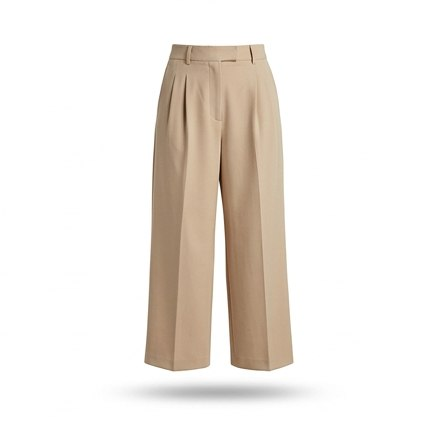
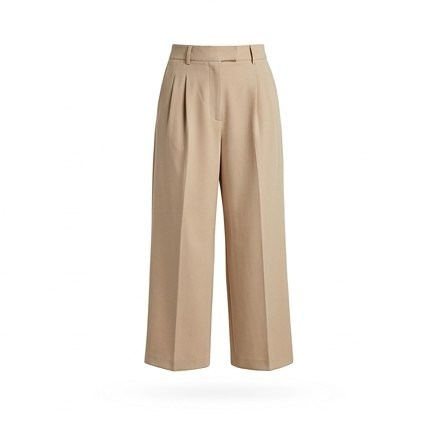
Home: lighter shadows under product photos and offer cards

Changed region(s): [[0.3397, 0.8892, 0.7102, 0.9505]]

diff --git a/index.html b/index.html
@@ -130,25 +130,25 @@ input::placeholder{color:#8E857F}
 </div>
 <div style="display: grid; grid-template-columns: repeat(2, minmax(0, 1fr)); gap: 18px 12px; padding: 0 18px">
 
-<div style="box-sizing: border-box; background: #FFFFFF; border-radius: 18px; padding: 7px; display: flex; flex-direction: column; gap: 8px; box-shadow: 0 4px 16px rgba(28,25,23,0.07)">
+<div style="box-sizing: border-box; background: #FFFFFF; border-radius: 18px; padding: 7px; display: flex; flex-direction: column; gap: 8px; box-shadow: 0 2px 10px rgba(28,25,23,0.04)">
 <div style="position: relative; height: 160px; border-radius: 13px; background: #F7F3F0; overflow: hidden"><img src="assets/dress.jpg" alt="فستان صيفي أحمر بدون أكمام" style="width: 100%; height: 100%; object-fit: contain; transform: scale(1.1); mix-blend-mode: multiply"><span style="position: absolute; top: 8px; right: 8px; height: 22px; padding: 0 8px; border-radius: 999px; background: #C2410C; color: #FFFFFF; font-size: 11px; font-weight: 700; display: flex; align-items: center">خصم 33٪</span><button type="button" aria-label="أضف للمفضلة" style="position: absolute; top: 6px; left: 6px; width: 30px; height: 30px; border: 0; border-radius: 999px; background: #FFFFFF; color: #1C1917; display: flex; align-items: center; justify-content: center; padding: 0"><svg width="16" height="16" viewBox="0 0 24 24" fill="none" stroke="currentColor" stroke-width="1.4" stroke-linecap="round" stroke-linejoin="round" aria-hidden="true"><path d="M12.62 20.81c-.34.12-.9.12-1.24 0C8.48 19.82 2 15.69 2 8.69 2 5.6 4.49 3.1 7.56 3.1c1.82 0 3.43.88 4.44 2.24a5.53 5.53 0 0 1 4.44-2.24C19.51 3.1 22 5.6 22 8.69c0 7-6.48 11.13-9.38 12.12Z"></path></svg></button></div>
 <span style="padding: 0 3px; font-size: 13px; line-height: 18px; font-weight: 500; color: #1C1917; white-space: nowrap; overflow: hidden; text-overflow: ellipsis">فستان أحمر</span>
 <div style="display: flex; align-items: center; justify-content: space-between; padding: 0 3px 2px"><div style="display: flex; align-items: center; gap: 6px"><span style="direction: ltr; display: inline-flex; align-items: center; gap: 4px; font-size: 16px; font-weight: 700; color: #C2410C"><svg width="12" height="13" viewBox="0 0 1124.14 1256.39" fill="currentColor" role="img" aria-label="ريال سعودي"><path d="M699.62,1113.02h0c-20.06,44.48-33.32,92.75-38.4,143.37l424.51-90.24c20.06-44.47,33.31-92.75,38.4-143.37l-424.51,90.24Z"></path><path d="M1085.73,895.8c20.06-44.47,33.32-92.75,38.4-143.37l-330.68,70.33v-135.2l292.27-62.11c20.06-44.47,33.32-92.75,38.4-143.37l-330.68,70.27V66.13c-50.67,28.45-95.67,66.32-132.25,110.99v403.35l-132.25,28.11V0c-50.67,28.44-95.67,66.32-132.25,110.99v525.69l-295.91,62.88c-20.06,44.47-33.33,92.75-38.42,143.37l334.33-71.05v170.26l-358.3,76.14c-20.06,44.47-33.32,92.75-38.4,143.37l375.04-79.7c30.53-6.35,56.77-24.4,73.83-49.24l68.78-101.97v-.02c7.14-10.55,11.3-23.27,11.3-36.97v-149.98l132.25-28.11v270.4l424.53-90.28Z"></path></svg>120</span><s style="direction: ltr; display: inline-flex; align-items: center; gap: 3px; font-size: 12px; color: #78716C"><svg width="9" height="10" viewBox="0 0 1124.14 1256.39" fill="currentColor" role="img" aria-label="ريال سعودي"><path d="M699.62,1113.02h0c-20.06,44.48-33.32,92.75-38.4,143.37l424.51-90.24c20.06-44.47,33.31-92.75,38.4-143.37l-424.51,90.24Z"></path><path d="M1085.73,895.8c20.06-44.47,33.32-92.75,38.4-143.37l-330.68,70.33v-135.2l292.27-62.11c20.06-44.47,33.32-92.75,38.4-143.37l-330.68,70.27V66.13c-50.67,28.45-95.67,66.32-132.25,110.99v403.35l-132.25,28.11V0c-50.67,28.44-95.67,66.32-132.25,110.99v525.69l-295.91,62.88c-20.06,44.47-33.33,92.75-38.42,143.37l334.33-71.05v170.26l-358.3,76.14c-20.06,44.47-33.32,92.75-38.4,143.37l375.04-79.7c30.53-6.35,56.77-24.4,73.83-49.24l68.78-101.97v-.02c7.14-10.55,11.3-23.27,11.3-36.97v-149.98l132.25-28.11v270.4l424.53-90.28Z"></path></svg>180</s></div><button type="button" aria-label="أضف فستان أحمر للسلة" style="width: 32px; height: 32px; border: 0; border-radius: 999px; background: #EA580C; color: #FFFFFF; display: flex; align-items: center; justify-content: center; padding: 0"><svg width="18" height="18" viewBox="0 0 24 24" fill="none" stroke="currentColor" stroke-width="2" stroke-linecap="round" aria-hidden="true"><path d="M6 12h12M12 18V6"></path></svg></button></div>
 </div>
 
-<div style="box-sizing: border-box; background: #FFFFFF; border-radius: 18px; padding: 7px; display: flex; flex-direction: column; gap: 8px; box-shadow: 0 4px 16px rgba(28,25,23,0.07)">
+<div style="box-sizing: border-box; background: #FFFFFF; border-radius: 18px; padding: 7px; display: flex; flex-direction: column; gap: 8px; box-shadow: 0 2px 10px rgba(28,25,23,0.04)">
 <div style="position: relative; height: 160px; border-radius: 13px; background: #F7F3F0; overflow: hidden"><img src="assets/pants.jpg" alt="بنطلون واسع بيج" style="width: 100%; height: 100%; object-fit: contain; transform: scale(1.1); mix-blend-mode: multiply"><span style="position: absolute; top: 8px; right: 8px; height: 22px; padding: 0 8px; border-radius: 999px; background: #C2410C; color: #FFFFFF; font-size: 11px; font-weight: 700; display: flex; align-items: center">خصم 39٪</span><button type="button" aria-label="أضف للمفضلة" style="position: absolute; top: 6px; left: 6px; width: 30px; height: 30px; border: 0; border-radius: 999px; background: #FFFFFF; color: #1C1917; display: flex; align-items: center; justify-content: center; padding: 0"><svg width="16" height="16" viewBox="0 0 24 24" fill="none" stroke="currentColor" stroke-width="1.4" stroke-linecap="round" stroke-linejoin="round" aria-hidden="true"><path d="M12.62 20.81c-.34.12-.9.12-1.24 0C8.48 19.82 2 15.69 2 8.69 2 5.6 4.49 3.1 7.56 3.1c1.82 0 3.43.88 4.44 2.24a5.53 5.53 0 0 1 4.44-2.24C19.51 3.1 22 5.6 22 8.69c0 7-6.48 11.13-9.38 12.12Z"></path></svg></button></div>
 <span style="padding: 0 3px; font-size: 13px; line-height: 18px; font-weight: 500; color: #1C1917; white-space: nowrap; overflow: hidden; text-overflow: ellipsis">بنطلون بيج</span>
 <div style="display: flex; align-items: center; justify-content: space-between; padding: 0 3px 2px"><div style="display: flex; align-items: center; gap: 6px"><span style="direction: ltr; display: inline-flex; align-items: center; gap: 4px; font-size: 16px; font-weight: 700; color: #C2410C"><svg width="12" height="13" viewBox="0 0 1124.14 1256.39" fill="currentColor" role="img" aria-label="ريال سعودي"><path d="M699.62,1113.02h0c-20.06,44.48-33.32,92.75-38.4,143.37l424.51-90.24c20.06-44.47,33.31-92.75,38.4-143.37l-424.51,90.24Z"></path><path d="M1085.73,895.8c20.06-44.47,33.32-92.75,38.4-143.37l-330.68,70.33v-135.2l292.27-62.11c20.06-44.47,33.32-92.75,38.4-143.37l-330.68,70.27V66.13c-50.67,28.45-95.67,66.32-132.25,110.99v403.35l-132.25,28.11V0c-50.67,28.44-95.67,66.32-132.25,110.99v525.69l-295.91,62.88c-20.06,44.47-33.33,92.75-38.42,143.37l334.33-71.05v170.26l-358.3,76.14c-20.06,44.47-33.32,92.75-38.4,143.37l375.04-79.7c30.53-6.35,56.77-24.4,73.83-49.24l68.78-101.97v-.02c7.14-10.55,11.3-23.27,11.3-36.97v-149.98l132.25-28.11v270.4l424.53-90.28Z"></path></svg>85</span><s style="direction: ltr; display: inline-flex; align-items: center; gap: 3px; font-size: 12px; color: #78716C"><svg width="9" height="10" viewBox="0 0 1124.14 1256.39" fill="currentColor" role="img" aria-label="ريال سعودي"><path d="M699.62,1113.02h0c-20.06,44.48-33.32,92.75-38.4,143.37l424.51-90.24c20.06-44.47,33.31-92.75,38.4-143.37l-424.51,90.24Z"></path><path d="M1085.73,895.8c20.06-44.47,33.32-92.75,38.4-143.37l-330.68,70.33v-135.2l292.27-62.11c20.06-44.47,33.32-92.75,38.4-143.37l-330.68,70.27V66.13c-50.67,28.45-95.67,66.32-132.25,110.99v403.35l-132.25,28.11V0c-50.67,28.44-95.67,66.32-132.25,110.99v525.69l-295.91,62.88c-20.06,44.47-33.33,92.75-38.42,143.37l334.33-71.05v170.26l-358.3,76.14c-20.06,44.47-33.32,92.75-38.4,143.37l375.04-79.7c30.53-6.35,56.77-24.4,73.83-49.24l68.78-101.97v-.02c7.14-10.55,11.3-23.27,11.3-36.97v-149.98l132.25-28.11v270.4l424.53-90.28Z"></path></svg>140</s></div><button type="button" aria-label="أضف بنطلون بيج للسلة" style="width: 32px; height: 32px; border: 0; border-radius: 999px; background: #EA580C; color: #FFFFFF; display: flex; align-items: center; justify-content: center; padding: 0"><svg width="18" height="18" viewBox="0 0 24 24" fill="none" stroke="currentColor" stroke-width="2" stroke-linecap="round" aria-hidden="true"><path d="M6 12h12M12 18V6"></path></svg></button></div>
 </div>
 
-<div style="box-sizing: border-box; background: #FFFFFF; border-radius: 18px; padding: 7px; display: flex; flex-direction: column; gap: 8px; box-shadow: 0 4px 16px rgba(28,25,23,0.07)">
+<div style="box-sizing: border-box; background: #FFFFFF; border-radius: 18px; padding: 7px; display: flex; flex-direction: column; gap: 8px; box-shadow: 0 2px 10px rgba(28,25,23,0.04)">
 <div style="position: relative; height: 160px; border-radius: 13px; background: #F7F3F0; overflow: hidden"><img src="assets/sneakers.jpg" alt="حذاء رياضي جلد أبيض" style="width: 100%; height: 100%; object-fit: contain; transform: scale(1.1); mix-blend-mode: multiply"><span style="position: absolute; top: 8px; right: 8px; height: 22px; padding: 0 8px; border-radius: 999px; background: #C2410C; color: #FFFFFF; font-size: 11px; font-weight: 700; display: flex; align-items: center">خصم 32٪</span><button type="button" aria-label="أضف للمفضلة" style="position: absolute; top: 6px; left: 6px; width: 30px; height: 30px; border: 0; border-radius: 999px; background: #FFFFFF; color: #1C1917; display: flex; align-items: center; justify-content: center; padding: 0"><svg width="16" height="16" viewBox="0 0 24 24" fill="none" stroke="currentColor" stroke-width="1.4" stroke-linecap="round" stroke-linejoin="round" aria-hidden="true"><path d="M12.62 20.81c-.34.12-.9.12-1.24 0C8.48 19.82 2 15.69 2 8.69 2 5.6 4.49 3.1 7.56 3.1c1.82 0 3.43.88 4.44 2.24a5.53 5.53 0 0 1 4.44-2.24C19.51 3.1 22 5.6 22 8.69c0 7-6.48 11.13-9.38 12.12Z"></path></svg></button></div>
 <span style="padding: 0 3px; font-size: 13px; line-height: 18px; font-weight: 500; color: #1C1917; white-space: nowrap; overflow: hidden; text-overflow: ellipsis">حذاء أبيض</span>
 <div style="display: flex; align-items: center; justify-content: space-between; padding: 0 3px 2px"><div style="display: flex; align-items: center; gap: 6px"><span style="direction: ltr; display: inline-flex; align-items: center; gap: 4px; font-size: 16px; font-weight: 700; color: #C2410C"><svg width="12" height="13" viewBox="0 0 1124.14 1256.39" fill="currentColor" role="img" aria-label="ريال سعودي"><path d="M699.62,1113.02h0c-20.06,44.48-33.32,92.75-38.4,143.37l424.51-90.24c20.06-44.47,33.31-92.75,38.4-143.37l-424.51,90.24Z"></path><path d="M1085.73,895.8c20.06-44.47,33.32-92.75,38.4-143.37l-330.68,70.33v-135.2l292.27-62.11c20.06-44.47,33.32-92.75,38.4-143.37l-330.68,70.27V66.13c-50.67,28.45-95.67,66.32-132.25,110.99v403.35l-132.25,28.11V0c-50.67,28.44-95.67,66.32-132.25,110.99v525.69l-295.91,62.88c-20.06,44.47-33.33,92.75-38.42,143.37l334.33-71.05v170.26l-358.3,76.14c-20.06,44.47-33.32,92.75-38.4,143.37l375.04-79.7c30.53-6.35,56.77-24.4,73.83-49.24l68.78-101.97v-.02c7.14-10.55,11.3-23.27,11.3-36.97v-149.98l132.25-28.11v270.4l424.53-90.28Z"></path></svg>150</span><s style="direction: ltr; display: inline-flex; align-items: center; gap: 3px; font-size: 12px; color: #78716C"><svg width="9" height="10" viewBox="0 0 1124.14 1256.39" fill="currentColor" role="img" aria-label="ريال سعودي"><path d="M699.62,1113.02h0c-20.06,44.48-33.32,92.75-38.4,143.37l424.51-90.24c20.06-44.47,33.31-92.75,38.4-143.37l-424.51,90.24Z"></path><path d="M1085.73,895.8c20.06-44.47,33.32-92.75,38.4-143.37l-330.68,70.33v-135.2l292.27-62.11c20.06-44.47,33.32-92.75,38.4-143.37l-330.68,70.27V66.13c-50.67,28.45-95.67,66.32-132.25,110.99v403.35l-132.25,28.11V0c-50.67,28.44-95.67,66.32-132.25,110.99v525.69l-295.91,62.88c-20.06,44.47-33.33,92.75-38.42,143.37l334.33-71.05v170.26l-358.3,76.14c-20.06,44.47-33.32,92.75-38.4,143.37l375.04-79.7c30.53-6.35,56.77-24.4,73.83-49.24l68.78-101.97v-.02c7.14-10.55,11.3-23.27,11.3-36.97v-149.98l132.25-28.11v270.4l424.53-90.28Z"></path></svg>220</s></div><button type="button" aria-label="أضف حذاء أبيض للسلة" style="width: 32px; height: 32px; border: 0; border-radius: 999px; background: #EA580C; color: #FFFFFF; display: flex; align-items: center; justify-content: center; padding: 0"><svg width="18" height="18" viewBox="0 0 24 24" fill="none" stroke="currentColor" stroke-width="2" stroke-linecap="round" aria-hidden="true"><path d="M6 12h12M12 18V6"></path></svg></button></div>
 </div>
 
-<div style="box-sizing: border-box; background: #FFFFFF; border-radius: 18px; padding: 7px; display: flex; flex-direction: column; gap: 8px; box-shadow: 0 4px 16px rgba(28,25,23,0.07)">
+<div style="box-sizing: border-box; background: #FFFFFF; border-radius: 18px; padding: 7px; display: flex; flex-direction: column; gap: 8px; box-shadow: 0 2px 10px rgba(28,25,23,0.04)">
 <div style="position: relative; height: 160px; border-radius: 13px; background: #F7F3F0; overflow: hidden"><img src="assets/shirt.jpg" alt="قميص قطن أزرق فاتح" style="width: 100%; height: 100%; object-fit: contain; transform: scale(1.1); mix-blend-mode: multiply"><span style="position: absolute; top: 8px; right: 8px; height: 22px; padding: 0 8px; border-radius: 999px; background: #C2410C; color: #FFFFFF; font-size: 11px; font-weight: 700; display: flex; align-items: center">خصم 33٪</span><button type="button" aria-label="أضف للمفضلة" style="position: absolute; top: 6px; left: 6px; width: 30px; height: 30px; border: 0; border-radius: 999px; background: #FFFFFF; color: #1C1917; display: flex; align-items: center; justify-content: center; padding: 0"><svg width="16" height="16" viewBox="0 0 24 24" fill="none" stroke="currentColor" stroke-width="1.4" stroke-linecap="round" stroke-linejoin="round" aria-hidden="true"><path d="M12.62 20.81c-.34.12-.9.12-1.24 0C8.48 19.82 2 15.69 2 8.69 2 5.6 4.49 3.1 7.56 3.1c1.82 0 3.43.88 4.44 2.24a5.53 5.53 0 0 1 4.44-2.24C19.51 3.1 22 5.6 22 8.69c0 7-6.48 11.13-9.38 12.12Z"></path></svg></button></div>
 <span style="padding: 0 3px; font-size: 13px; line-height: 18px; font-weight: 500; color: #1C1917; white-space: nowrap; overflow: hidden; text-overflow: ellipsis">قميص أزرق</span>
 <div style="display: flex; align-items: center; justify-content: space-between; padding: 0 3px 2px"><div style="display: flex; align-items: center; gap: 6px"><span style="direction: ltr; display: inline-flex; align-items: center; gap: 4px; font-size: 16px; font-weight: 700; color: #C2410C"><svg width="12" height="13" viewBox="0 0 1124.14 1256.39" fill="currentColor" role="img" aria-label="ريال سعودي"><path d="M699.62,1113.02h0c-20.06,44.48-33.32,92.75-38.4,143.37l424.51-90.24c20.06-44.47,33.31-92.75,38.4-143.37l-424.51,90.24Z"></path><path d="M1085.73,895.8c20.06-44.47,33.32-92.75,38.4-143.37l-330.68,70.33v-135.2l292.27-62.11c20.06-44.47,33.32-92.75,38.4-143.37l-330.68,70.27V66.13c-50.67,28.45-95.67,66.32-132.25,110.99v403.35l-132.25,28.11V0c-50.67,28.44-95.67,66.32-132.25,110.99v525.69l-295.91,62.88c-20.06,44.47-33.33,92.75-38.42,143.37l334.33-71.05v170.26l-358.3,76.14c-20.06,44.47-33.32,92.75-38.4,143.37l375.04-79.7c30.53-6.35,56.77-24.4,73.83-49.24l68.78-101.97v-.02c7.14-10.55,11.3-23.27,11.3-36.97v-149.98l132.25-28.11v270.4l424.53-90.28Z"></path></svg>60</span><s style="direction: ltr; display: inline-flex; align-items: center; gap: 3px; font-size: 12px; color: #78716C"><svg width="9" height="10" viewBox="0 0 1124.14 1256.39" fill="currentColor" role="img" aria-label="ريال سعودي"><path d="M699.62,1113.02h0c-20.06,44.48-33.32,92.75-38.4,143.37l424.51-90.24c20.06-44.47,33.31-92.75,38.4-143.37l-424.51,90.24Z"></path><path d="M1085.73,895.8c20.06-44.47,33.32-92.75,38.4-143.37l-330.68,70.33v-135.2l292.27-62.11c20.06-44.47,33.32-92.75,38.4-143.37l-330.68,70.27V66.13c-50.67,28.45-95.67,66.32-132.25,110.99v403.35l-132.25,28.11V0c-50.67,28.44-95.67,66.32-132.25,110.99v525.69l-295.91,62.88c-20.06,44.47-33.33,92.75-38.42,143.37l334.33-71.05v170.26l-358.3,76.14c-20.06,44.47-33.32,92.75-38.4,143.37l375.04-79.7c30.53-6.35,56.77-24.4,73.83-49.24l68.78-101.97v-.02c7.14-10.55,11.3-23.27,11.3-36.97v-149.98l132.25-28.11v270.4l424.53-90.28Z"></path></svg>90</s></div><button type="button" aria-label="أضف قميص أزرق للسلة" style="width: 32px; height: 32px; border: 0; border-radius: 999px; background: #EA580C; color: #FFFFFF; display: flex; align-items: center; justify-content: center; padding: 0"><svg width="18" height="18" viewBox="0 0 24 24" fill="none" stroke="currentColor" stroke-width="2" stroke-linecap="round" aria-hidden="true"><path d="M6 12h12M12 18V6"></path></svg></button></div>
